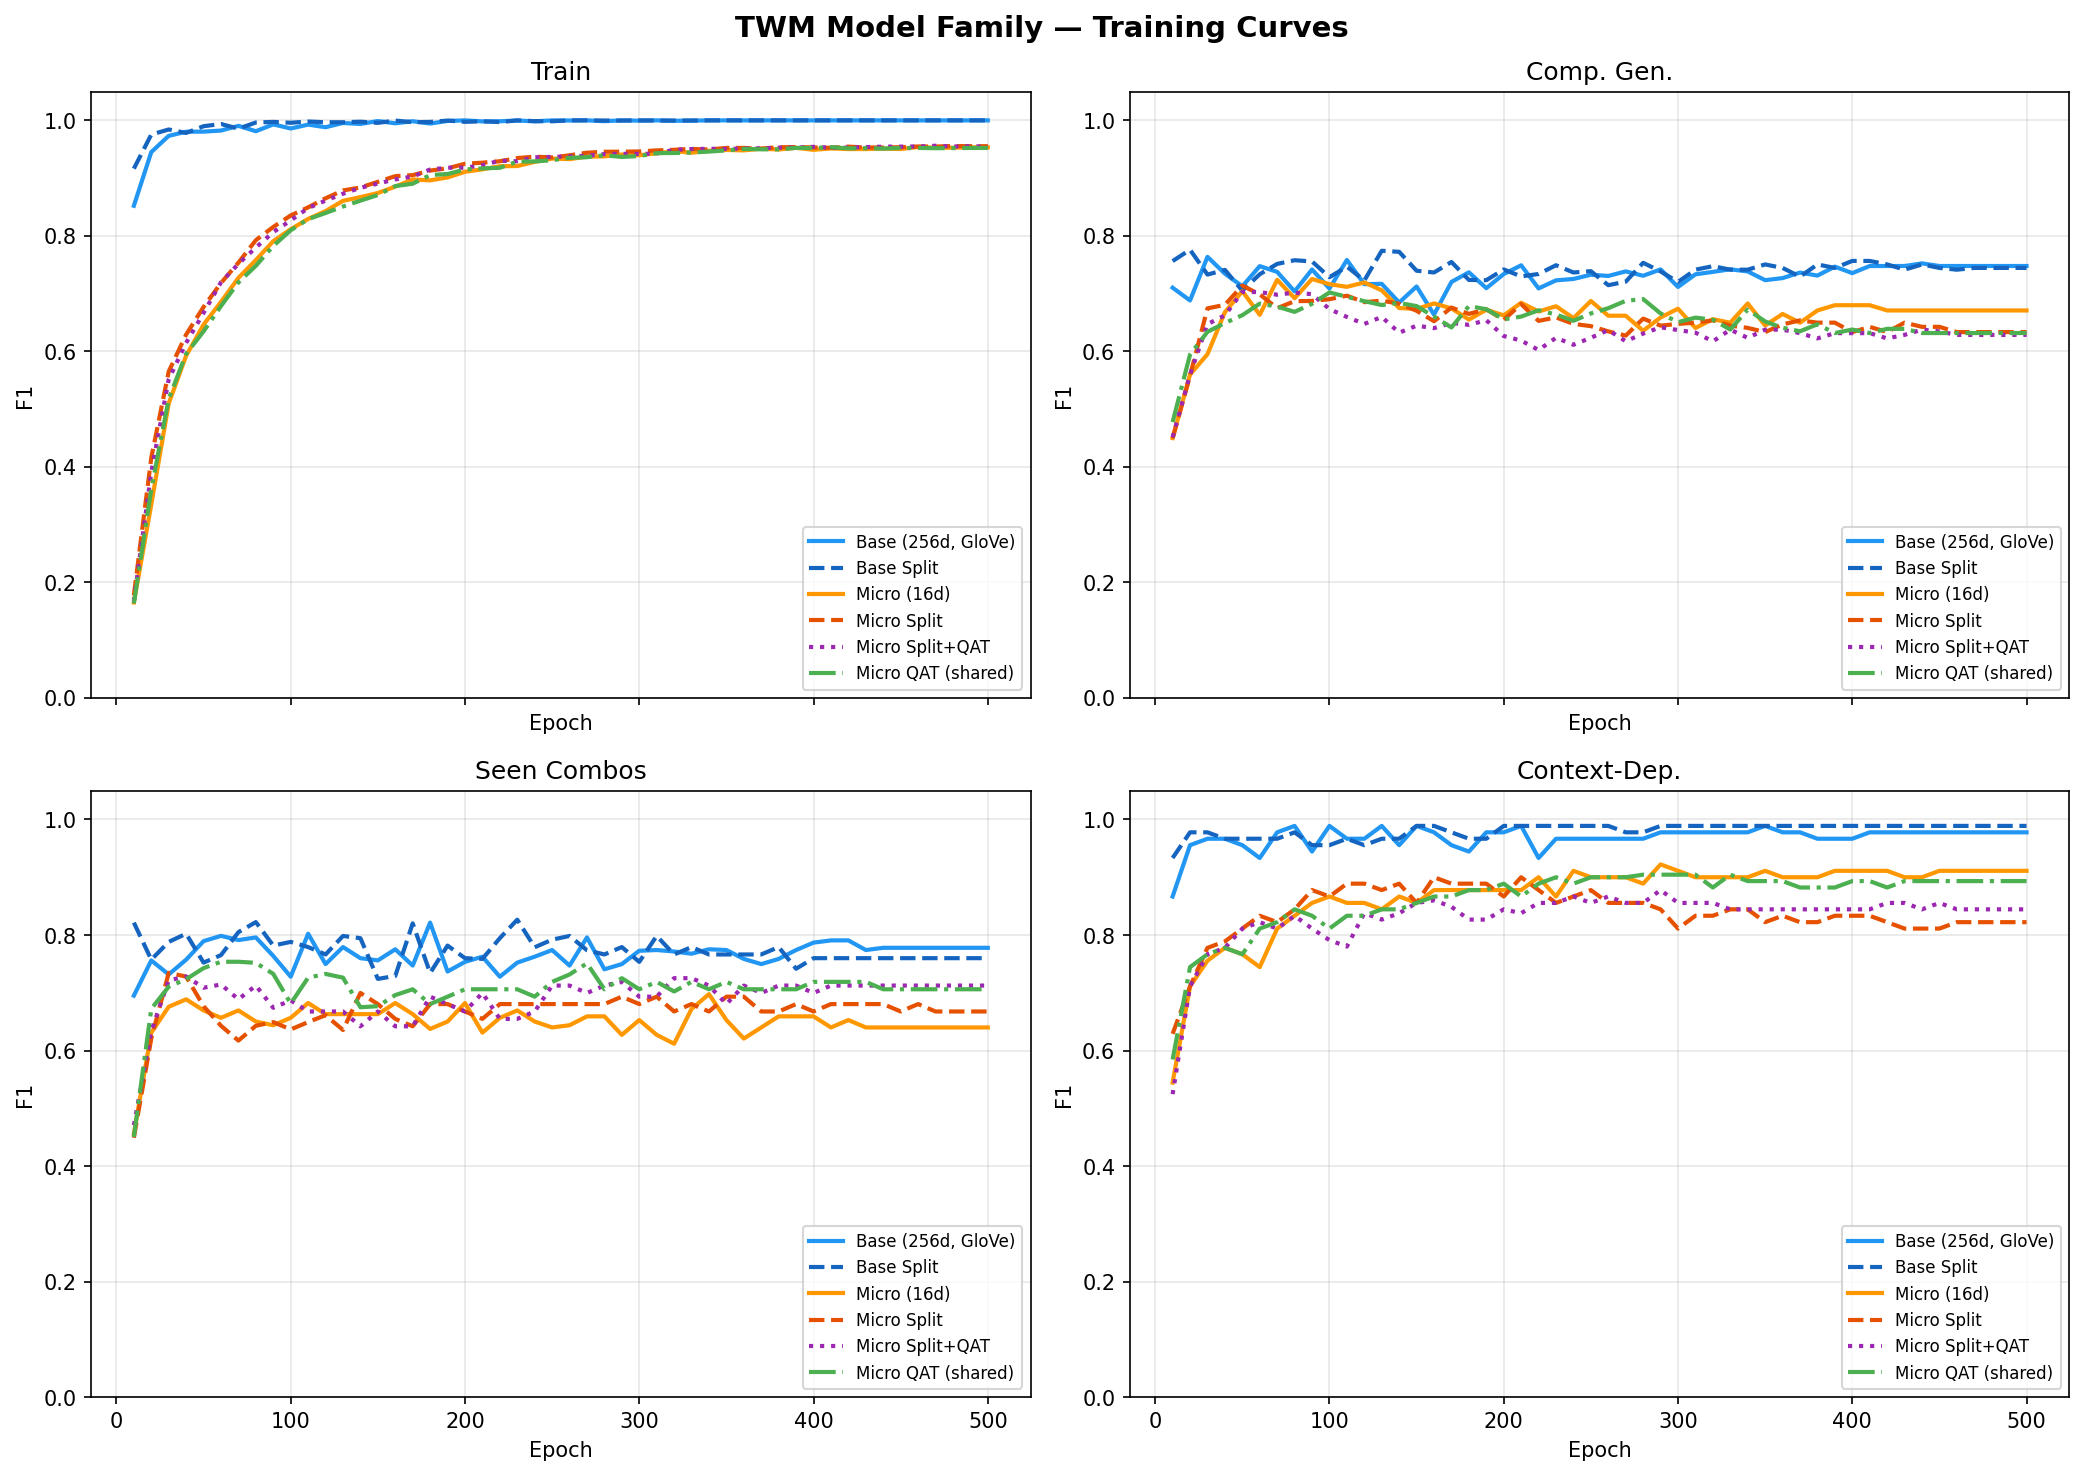
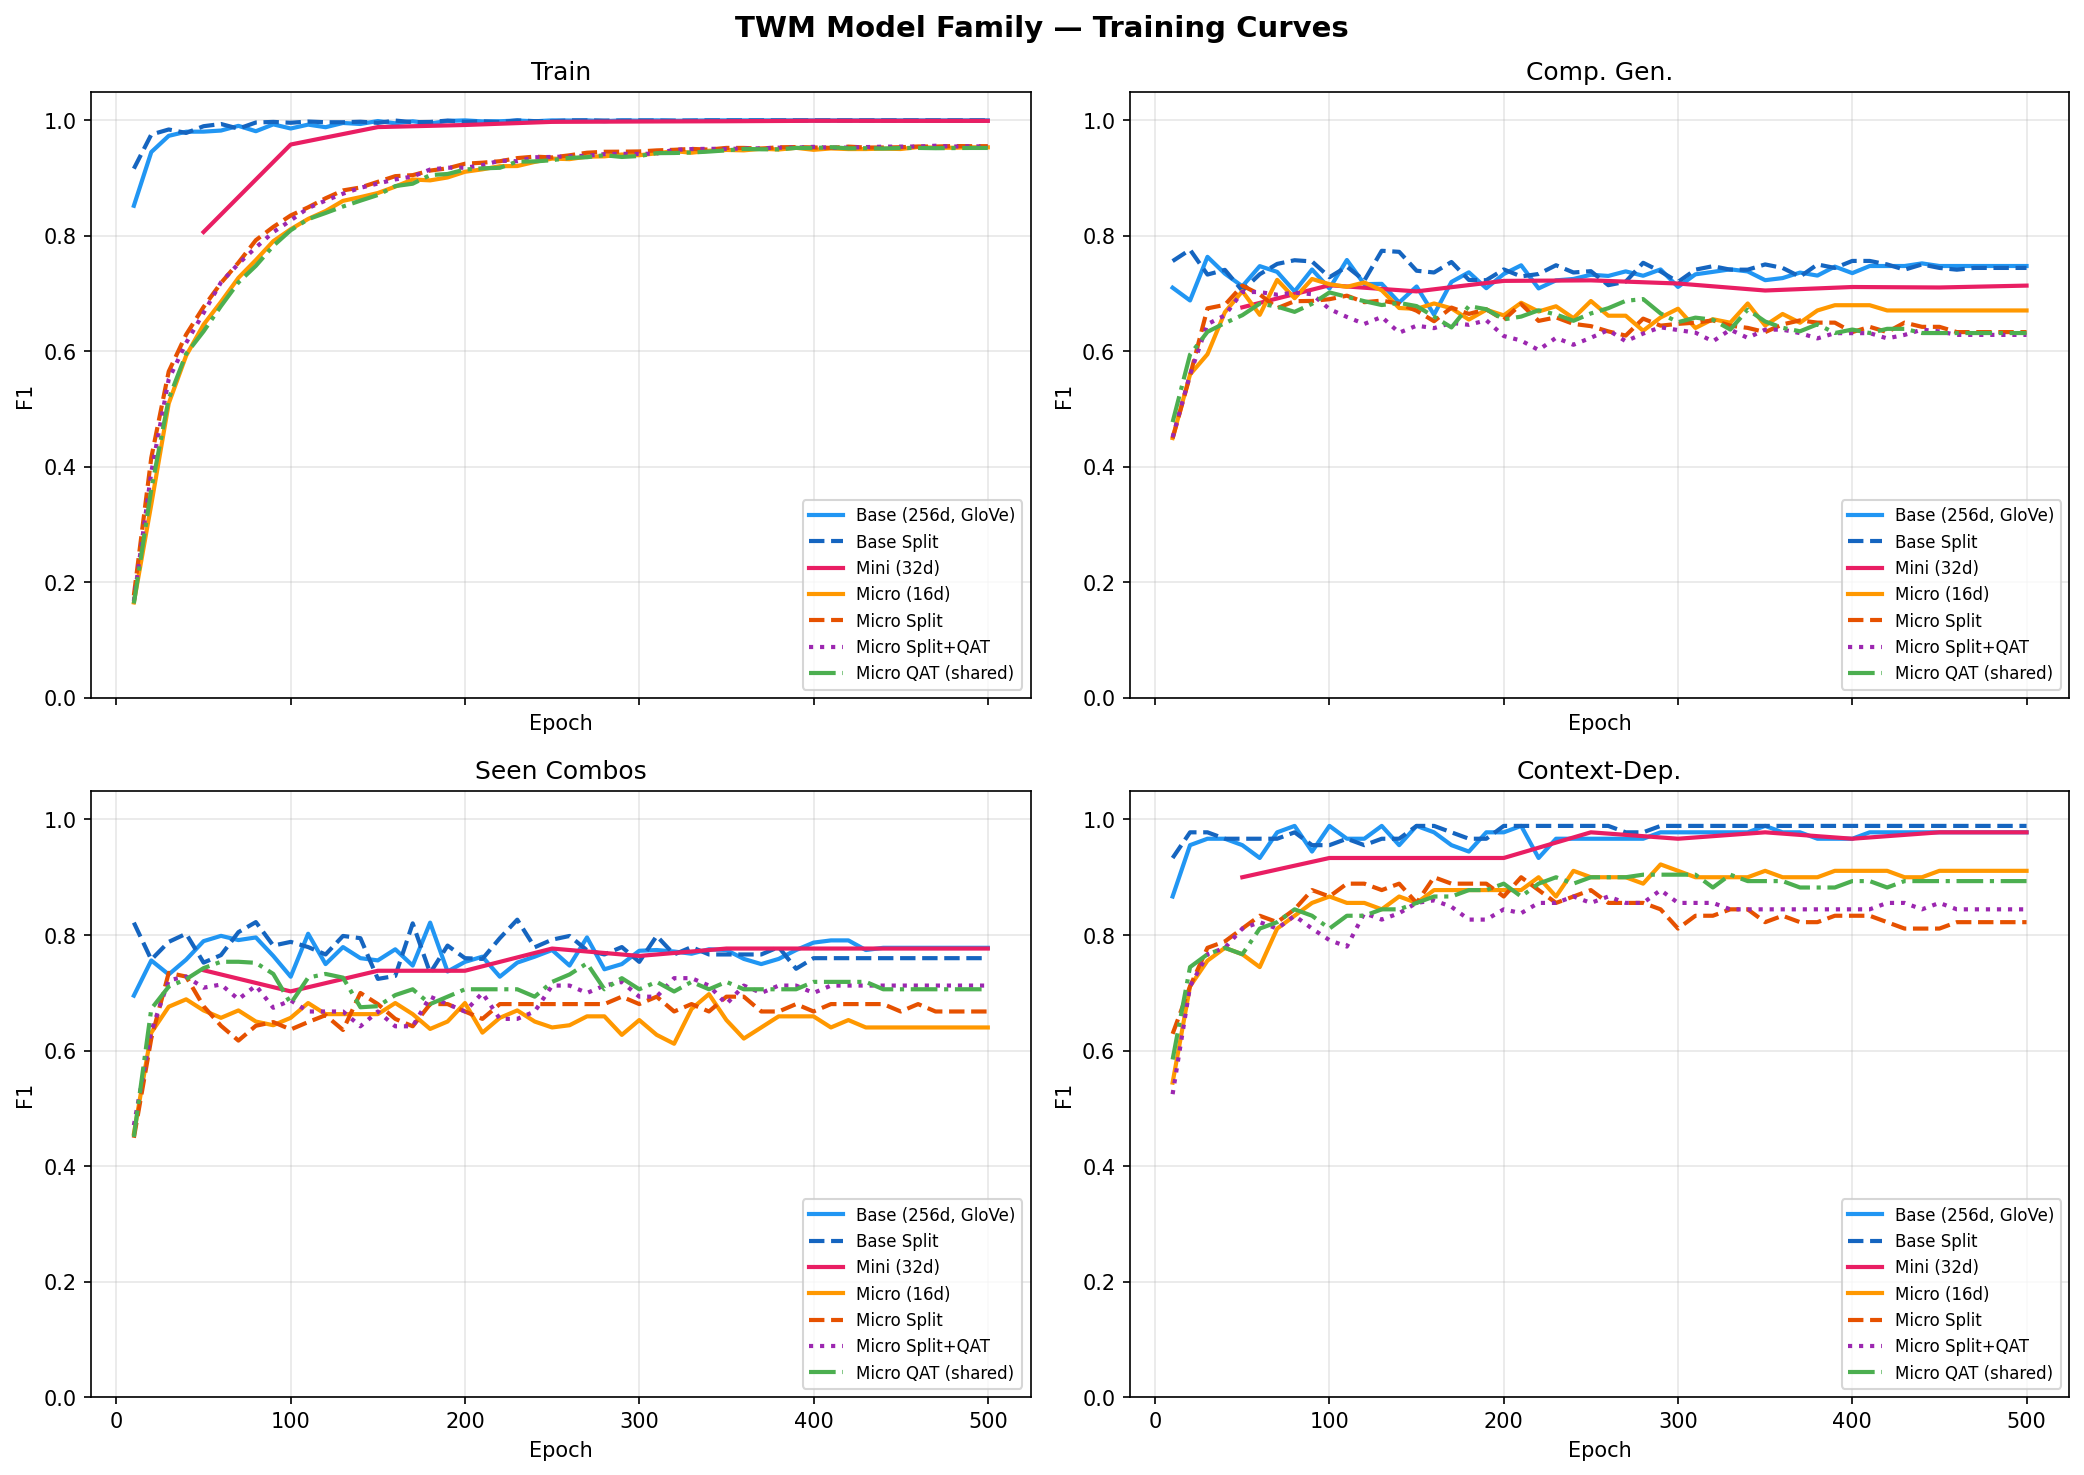
Regenerate family benchmark plots with TWM Mini
Add Mini (32d, pink) to all three charts: training curves, final F1
comparison, and size vs accuracy tradeoff. Mini sits between Micro
and Base on the efficiency frontier, matching Base on context-dep
F1 at 25x fewer parameters.

diff --git a/scripts/plot_family.py b/scripts/plot_family.py
@@ -16,6 +16,7 @@ matplotlib.use("Agg")
 VARIANTS = {
     "twm_base": {"label": "Base (256d, GloVe)", "color": "#2196F3", "ls": "-"},
     "twm_base_split": {"label": "Base Split", "color": "#1565C0", "ls": "--"},
+    "twm_mini": {"label": "Mini (32d)", "color": "#E91E63", "ls": "-"},
     "twm_micro": {"label": "Micro (16d)", "color": "#FF9800", "ls": "-"},
     "twm_micro_split": {"label": "Micro Split", "color": "#E65100", "ls": "--"},
     "twm_micro_split_qat": {"label": "Micro Split+QAT", "color": "#9C27B0", "ls": ":"},
@@ -81,7 +82,7 @@ def plot_final_comparison(results_dir: Path, out_path: Path):
     fig, ax = plt.subplots(figsize=(14, 7))
     ax.set_title("TWM Model Family — Final F1 Comparison", fontsize=14, fontweight="bold")
 
-    bar_width = 0.15
+    bar_width = 0.12
     x_positions = list(range(len(SPLITS)))
 
     variant_names = []
@@ -162,8 +163,9 @@ def plot_efficiency(results_dir: Path, out_path: Path):
             points.append((params, f1, variant_name, style))
 
         # Sort by f1 within each param cluster for label offset stacking
-        micro_pts = sorted([p for p in points if p[0] < 200_000], key=lambda p: -p[1])
-        base_pts = sorted([p for p in points if p[0] >= 200_000], key=lambda p: -p[1])
+        micro_pts = sorted([p for p in points if p[0] < 100_000], key=lambda p: -p[1])
+        mid_pts = sorted([p for p in points if 100_000 <= p[0] < 500_000], key=lambda p: -p[1])
+        base_pts = sorted([p for p in points if p[0] >= 500_000], key=lambda p: -p[1])
 
         # Assign vertical offsets to avoid overlap within clusters
         def plot_cluster(cluster, base_offset_x, offsets_y):
@@ -180,6 +182,8 @@ def plot_efficiency(results_dir: Path, out_path: Path):
 
         # Micro cluster: spread labels to the right, stacked vertically
         plot_cluster(micro_pts, 12, [28, 14, 0, -14, -28, -42])
+        # Mini cluster: labels above
+        plot_cluster(mid_pts, 12, [18, -18])
         # Base cluster: spread labels to the left
         plot_cluster(base_pts, -12, [18, -18])
 
